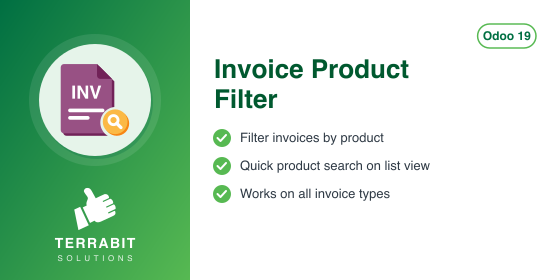
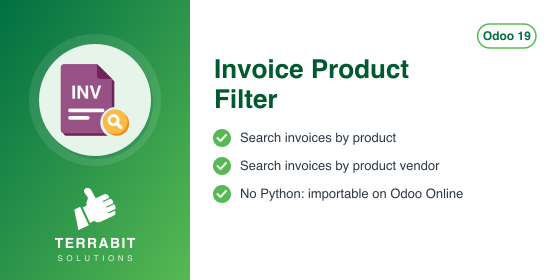
[IMP] deltatech_invoice_product_filter: data-only module, importable on Odoo Online
The empty __init__.py is removed: the module only extends the invoice
search view, so it can be imported as a zip on Odoo Online (Custom plan)
from Apps > Import Module. The name, summary, banner and Apps Store page
say it, since Odoo Apps does not flag data-only modules as available on
Odoo Online. The module is excluded from oca-checks-odoo-module, which
requires __init__.py.

Adds the consultant sheet (RO) and USAGE.md (EN), with screenshots taken
on a test database with the RO localization.

Assisted-by: Claude Opus 5.5

Changed region(s): [[0.425, 0.6571, 0.85, 0.7143], [0.425, 0.5714, 0.7893, 0.6286], [0.425, 0.4571, 0.7286, 0.5143]]

diff --git a/deltatech_invoice_product_filter/static/description/index.html b/deltatech_invoice_product_filter/static/description/index.html
@@ -5,11 +5,11 @@
     <span class="d-inline-block rounded-4 p-2 flex-shrink-0 my-2" style="background-color:#ffffff;margin-right:24px;"><img src="icon.png" alt="Invoice Product Filter" style="width:80px;height:80px;border:none;"/></span>
     <div class="flex-grow-1 my-2" style="width:320px;min-width:0;margin-right:24px;">
       <h1 class="fw-bold mb-2" style="color:#ffffff;font-size:36px;line-height:1.1;letter-spacing:-0.5px;border:none;">Invoice Product Filter</h1>
-      <p class="mb-3" style="font-size:18px;color:#cdeccf;line-height:1.45;">Search invoices by product name instantly</p>
+      <p class="mb-3" style="font-size:18px;color:#cdeccf;line-height:1.45;">Find invoices by product, also on Odoo Online</p>
       <div>
         <span class="d-inline-block rounded-pill fw-bold me-2 mb-2" style="background-color:#ffffff;border:1px solid #ffffff;color:#006F42;padding:6px 14px;font-size:12px;">Odoo 19.0</span>
         <span class="d-inline-block rounded-pill fw-semibold me-2 mb-2" style="border:1px solid #8fd1ad;color:#ffffff;padding:6px 14px;font-size:12px;">Accounting</span>
-        <span class="d-inline-block rounded-pill fw-semibold me-2 mb-2" style="border:1px solid #8fd1ad;color:#ffffff;padding:6px 14px;font-size:12px;">Odoo.sh &bull; On-premise</span>
+        <span class="d-inline-block rounded-pill fw-semibold me-2 mb-2" style="border:1px solid #8fd1ad;color:#ffffff;padding:6px 14px;font-size:12px;">Odoo Online &bull; Odoo.sh &bull; On-premise</span>
         <span class="d-inline-block rounded-pill fw-semibold me-2 mb-2" style="border:1px dashed #8fd1ad;color:#ffffff;padding:6px 14px;font-size:12px;">LGPL-3</span>
       </div>
     </div>
@@ -32,6 +32,11 @@
        style="padding:10px 22px;">Overview</a>
   </li>
   <li class="nav-item mx-1 mb-2">
+    <a class="nav-link fw-semibold rounded-pill border" id="tb-tab-usage"
+       data-bs-toggle="pill" data-bs-target="#tb-panel-usage" href="#tb-panel-usage"
+       style="padding:10px 22px;">Usage</a>
+  </li>
+  <li class="nav-item mx-1 mb-2">
     <a class="nav-link fw-semibold rounded-pill border" id="tb-tab-versions"
        data-bs-toggle="pill" data-bs-target="#tb-panel-versions" href="#tb-panel-versions"
        style="padding:10px 22px;">Versions</a>
@@ -49,9 +54,45 @@
 </ul>
 </li>
 </ul>
+<h1 class="fw-bold mt-4 mb-3" style="border:none;border-left:4px solid #57B952;padding-left:16px;font-size:24px;letter-spacing:-0.3px;line-height:1.2;">Odoo Online</h1>
+<p>The module contains no Python code, only a search view extension. Besides Odoo.sh and
+on-premise installations, it can be used on Odoo Online (Custom plan): download the zip and load
+it from <strong>Apps &gt; Import Module</strong>.</p>
+</div>
+<div class="tab-pane fade py-2" id="tb-panel-usage" style="font-size:16px;line-height:1.65;color:#212529;font-weight:400;">
+<h2 class="fw-bold mb-3" style="border:none;border-left:4px solid #57B952;padding-left:16px;font-size:24px;letter-spacing:-0.3px;line-height:1.2;">Usage</h2>
+<ol>
+<li>Install the module, or on Odoo Online import the zip from <strong>Apps &gt; Import Module</strong>
+   (Custom plan, developer mode). There is nothing to configure; for the vendor search, the
+   products need their vendors in the <strong>Purchase</strong> tab of the product form.</li>
+<li>Open <strong>Invoicing &gt; Customers &gt; Invoices</strong> and type a product name, or part of it, in the search
+   bar. Two new suggestions appear: <strong>Search Product for: ...</strong> and <strong>Search Vendor for: ...</strong>.</li>
+</ol>
+<p><img class="img-fluid d-block" style="max-width:100%;height:auto;" alt="Invoices list with TEST Ergonomic typed in the search bar; the suggestions include Search Product for: TEST Ergonomic (highlighted) and Search Vendor for: TEST Ergonomic" src="en/01_cautare_dupa_produs.png" /></p>
+<ol start="3">
+<li>Choose <strong>Search Product</strong>: the list keeps only the invoices that have the product on at least
+   one line. The search uses the product name, its internal reference or its barcode.</li>
+</ol>
+<p><img class="img-fluid d-block" style="max-width:100%;height:auto;" alt="Invoices list filtered by Product: TEST Ergonomic, showing the invoices of TEST Contoso Interiors Ltd and TEST Northwind Builders Ltd" src="en/02_facturi_filtrate_produs.png" /></p>
+<ol start="4">
+<li>Remove the facet, type a vendor name and choose <strong>Search Vendor</strong>: the list keeps the invoices
+   with products bought from that vendor, whatever the product.</li>
+</ol>
+<p><img class="img-fluid d-block" style="max-width:100%;height:auto;" alt="Invoices list filtered by Vendor: TEST Office, showing three invoices with products supplied by TEST Office Supply Ltd" src="en/03_facturi_filtrate_furnizor.png" /></p>
+<p>Both criteria are available in every invoice list: customer invoices and credit notes, vendor
+bills and refunds. They can be combined with each other and with the standard filters.</p>
 </div>
 <div class="tab-pane fade py-2" id="tb-panel-versions" style="font-size:16px;line-height:1.65;color:#212529;font-weight:400;">
 <h2 class="fw-bold mb-3" style="border:none;border-left:4px solid #57B952;padding-left:16px;font-size:24px;letter-spacing:-0.3px;line-height:1.2;">Versions</h2>
+<h2 class="fw-bold mt-4 mb-3" style="border:none;border-left:4px solid #57B952;padding-left:16px;font-size:24px;letter-spacing:-0.3px;line-height:1.2;">19.0.1.2.0 (2026-11-08)</h2>
+<ul>
+<li>Data-only module: the empty <code class="border rounded px-2" style="font-family:ui-monospace,SFMono-Regular,Menlo,Consolas,monospace;font-size:13px;">__init__.py</code> was removed, so the module has no Python code. It
+  can be installed on Odoo Online (Custom plan) as a zip from Apps &gt; Import Module, as well as on
+  Odoo.sh and on-premise.</li>
+<li>Odoo Apps does not mark data-only modules as available on Odoo Online, so the module name,
+  the summary, the banner and the Apps Store page now say it: "Invoice Product Filter
+  (importable, Odoo Online)".</li>
+</ul>
 <h2 class="fw-bold mt-4 mb-3" style="border:none;border-left:4px solid #57B952;padding-left:16px;font-size:24px;letter-spacing:-0.3px;line-height:1.2;">19.0.1.1.1 (2026-09-29)</h2>
 <ul>
 <li>Own module icon, instead of the generic gears it had.</li>
@@ -232,7 +273,7 @@
               <span class="d-block" style="font-size:13px;color:#3d4752;">Accounting</span>
             </span>
           </div>
-          <p class="mb-0" style="font-size:15px;line-height:1.45;color:#3d4752;">Create receipt form invoice</p>
+          <p class="mb-0" style="font-size:15px;line-height:1.45;color:#3d4752;">Create the purchase order and the receipt from the vendor bill</p>
         </div>
       </a>
     </div>

diff --git a/deltatech_invoice_product_filter/__manifest__.py b/deltatech_invoice_product_filter/__manifest__.py
@@ -3,9 +3,9 @@
 # See README.rst file on addons root folder for license details
 
 {
-    "name": "Invoice Product Filter",
-    "summary": "Searching invoice using product",
-    "version": "19.0.1.1.1",
+    "name": "Invoice Product Filter (importable, Odoo Online)",
+    "summary": "Search invoices by product or product vendor; data-only, importable on Odoo Online",
+    "version": "19.0.1.2.0",
     "author": "Terrabit, Dorin Hongu",
     "website": "https://www.terrabit.ro",
     "category": "Accounting",

diff --git a/deltatech_invoice_product_filter/readme/FISA_CONSULTANT.md b/deltatech_invoice_product_filter/readme/FISA_CONSULTANT.md
@@ -1,0 +1,151 @@
+# Fișă Modul: Căutarea facturilor după produs și după furnizorul produsului
+
+**Modul:** `deltatech_invoice_product_filter`
+**Utilizator principal:** Contabili, facturiste, agenți de vânzări și achizitori care caută facturi
+**Prioritate:** 🟢 Scăzută (adaugă două criterii de căutare, nu modifică datele)
+
+---
+
+## 1. Scop business
+
+În Odoo, căutarea din lista de facturi găsește documentele după număr, partener, referință sau
+jurnal; criteriul standard **Linie factură** caută doar în textul liniilor, nu după produs,
+referința lui internă, codul de bare sau furnizorul produsului. Ca să afle pe ce facturi a fost vândut un anumit produs,
+utilizatorul trebuie să deschidă analiza facturilor sau să caute în liniile contabile. Modulul
+adaugă în bara de căutare a facturilor două criterii:
+
+- **Produs**: găsește facturile care au pe linii un produs al cărui nume sau referință internă
+  conține textul căutat (sau al cărui cod de bare este exact textul căutat);
+- **Furnizor**: găsește facturile care au pe linii produse cumpărate de la furnizorul căutat, adică
+  produse care au furnizorul în fila **Achiziție** a fișei produsului (lista de prețuri ale
+  furnizorilor).
+
+Criteriile apar în toate listele care folosesc căutarea facturilor: facturi și note de credit
+clienți, facturi și rambursări furnizori.
+
+Modulul nu are cod Python, doar o extensie a vederii de căutare. Pe lângă Odoo.sh și instalările
+proprii, se poate folosi și pe Odoo Online (planul Custom), încărcat ca arhivă zip: cu modul
+dezvoltator activ, din **Aplicații → Importați Modulul**.
+
+## 2. Bază legală și context
+
+Modulul nu are bază legală. Contextul este lucrul zilnic: răspunsul la întrebări ca „pe ce facturi
+am vândut produsul X?”, „ce clienți au cumpărat marfă de la furnizorul Y?”, verificarea unei
+reclamații sau a unui retur, pregătirea unei discuții comerciale cu un furnizor.
+
+## 3. Utilizatori și roluri
+
+| Rol | Ce face |
+|---|---|
+| Utilizator cu acces la Facturare | Caută facturi după produs sau după furnizorul produsului |
+| Administrator | Instalează sau importă modulul; nu are nimic de configurat |
+
+Modulul nu adaugă grupuri de drepturi: fiecare utilizator vede doar facturile la care are deja
+acces. Pentru testare ajunge un utilizator administrator.
+
+## 4. Conturi și date implicate
+
+Nu se folosesc conturi contabile și nu se generează note contabile. Pentru demo sunt necesare:
+
+- câteva produse, unele cu furnizor completat în fila **Achiziție** (în capturi: *TEST Scaun
+  ergonomic* și *TEST Lampă de birou*, cu furnizorul *TEST Distribuție Mobilier SRL*; *TEST Birou
+  reglabil*, cu furnizorul *TEST Lemn Prelucrat SRL*);
+- câteva facturi clienți validate cu aceste produse (în capturi: facturile către *TEST Mobila
+  Banat SRL*, *TEST Birou Expert SRL* și *TEST Casa Verde SRL*).
+
+## 5. Configurare inițială
+
+1. Instalați modulul `deltatech_invoice_product_filter` (depinde doar de `account`). Pe Odoo Online,
+   activați modul dezvoltator și încărcați arhiva zip din **Aplicații → Importați Modulul**.
+2. Pentru criteriul **Furnizor**, completați furnizorii pe produse: fișa produsului, fila
+   **Achiziție**, lista de furnizori. Nu există alte setări.
+
+## 6. Flux de utilizare
+
+### Pasul 1 — Căutarea după produs
+
+Deschideți **Facturare → Clienți → Facturi**. Scrieți în bara de căutare numele produsului sau o
+parte din el (de exemplu *TEST Scaun*). În lista de sugestii apar două rânduri noi: **Caută Produs
+pentru: …** și **Caută Furnizor pentru: …**. Alegeți **Caută Produs**.
+
+![Lista Facturi cu textul TEST Scaun scris în bara de căutare; în lista de sugestii, între Caută Partener și Caută Agent de vânzări, sunt rândurile noi Caută Produs pentru: TEST Scaun (evidențiat) și Caută Furnizor pentru: TEST Scaun](../static/description/01_cautare_dupa_produs.png)
+
+### Pasul 2 — Facturile care conțin produsul
+
+Lista se reduce la facturile care au produsul pe cel puțin o linie, iar în bara de căutare apare
+eticheta **Produs**. Totalurile de sub listă se recalculează pe facturile găsite (sunt totalurile
+facturilor întregi, nu doar ale liniilor cu produsul căutat).
+
+![Lista Facturi filtrată cu eticheta Produs: TEST Scaun; rămân facturile INV/2026/00011 către TEST Birou Expert SRL și INV/2026/00010 către TEST Mobila Banat SRL, cu totalul 15.367,00 lei](../static/description/02_facturi_filtrate_produs.png)
+
+### Pasul 3 — Căutarea după furnizorul produsului
+
+Ștergeți eticheta cu **×**, scrieți numele furnizorului (de exemplu *TEST Distribuție*) și alegeți
+**Caută Furnizor pentru: …**. Lista arată facturile clienți pe care s-au vândut produse ale acelui
+furnizor, indiferent de produs: aici, scaunele și lămpile de birou.
+
+![Lista Facturi filtrată cu eticheta Furnizor: TEST Distribuție; rămân trei facturi: INV/2026/00013 către TEST Casa Verde SRL, INV/2026/00011 către TEST Birou Expert SRL și INV/2026/00010 către TEST Mobila Banat SRL](../static/description/03_facturi_filtrate_furnizor.png)
+
+Criteriile se pot combina între ele și cu filtrele standard (de exemplu **Produs** plus filtrul pe
+perioadă sau pe stare). Mai multe valori puse pe același criteriu se leagă cu „sau”.
+
+### Note de monografie și raportare
+
+Modulul nu generează note contabile (Dr/Cr): doar filtrează lista de facturi existente.
+
+## 7. Legături cu alte module / declarații
+
+| Modul | Rol |
+|---|---|
+| `account` | Lista de facturi și vederea de căutare pe care modulul o extinde |
+| `product` (instalat odată cu `account`) | Produsele și furnizorii lor (fila **Achiziție**) |
+| `purchase` (opțional) | Adaugă automat furnizorul comenzii pe produs la confirmarea comenzii de achiziție (dacă produsul are cel mult 10 furnizori) |
+| `base_import_module` | Importul arhivei zip pe Odoo Online |
+
+**Ce e automat:** criteriile **Produs** și **Furnizor** apar în căutarea tuturor listelor de
+facturi și note de credit, de vânzare și de achiziție.
+
+**Ce rămâne manual:** completarea furnizorilor pe produse, pentru criteriul **Furnizor**.
+
+## 8. Verificări pentru consultant
+
+- [ ] În **Facturare → Clienți → Facturi**, după ce scrieți un text în căutare, apar sugestiile
+  **Caută Produs** și **Caută Furnizor**.
+- [ ] Căutarea după produs găsește facturile care au produsul pe linii, inclusiv după referința
+  internă a produsului (codul dintre paranteze drepte).
+- [ ] Căutarea după furnizor găsește facturile cu produse care au furnizorul în fila **Achiziție**.
+- [ ] Criteriile apar și în **Facturare → Furnizori → Facturi** și în listele de note de credit.
+- [ ] Pe Odoo Online, după importul arhivei zip (modul dezvoltator, **Aplicații → Importați
+  Modulul**), modulul apare în **Aplicații** și criteriile apar în căutarea facturilor.
+
+## 9. Mesaje de eroare frecvente
+
+| Mesaj | Cauză | Remediere |
+|---|---|---|
+| Căutarea după furnizor nu găsește nicio factură | Produsele nu au furnizorul completat în fila **Achiziție** (furnizorul de pe factura de achiziție nu contează) | Completați furnizorii pe produse sau folosiți criteriul **Partener** pe facturile furnizorilor |
+| Căutarea după produs găsește facturi în plus | Textul căutat apare în numele mai multor produse | Scrieți un text mai precis sau referința internă a produsului |
+| Sugestiile **Caută Produs** și **Caută Furnizor** nu apar | Modulul nu e instalat sau browserul folosește încă vederea veche | Verificați în **Aplicații** și reîncărcați pagina |
+
+## 10. Capturi de ecran
+
+Capturile sunt în `static/description/` (cele în engleză, pentru `readme/USAGE.md`, în
+`static/description/en/`), făcute în română pe o bază de test cu localizarea RO (`l10n_ro`, TVA 21%, moneda RON) și cu
+modulul instalat:
+
+| Fișier | Ce arată |
+|---|---|
+| `01_cautare_dupa_produs.png` | Lista de sugestii cu rândurile noi **Caută Produs** și **Caută Furnizor** |
+| `02_facturi_filtrate_produs.png` | Facturile care conțin produsul *TEST Scaun ergonomic* |
+| `03_facturi_filtrate_furnizor.png` | Facturile cu produse ale furnizorului *TEST Distribuție Mobilier SRL* |
+
+Modulul nu are `tests/test_screenshots.py`, ca să rămână fără cod Python: capturile s-au făcut
+cu Playwright.
+
+## 11. Observații pentru manual
+
+- Criteriul **Furnizor** caută după furnizorii declarați pe produs, nu după furnizorul de pe
+  factura de achiziție; un produs cu mai mulți furnizori apare la căutarea oricăruia dintre ei.
+- Furnizorul se poate căuta și după CUI, email sau referința internă a partenerului.
+- Totalurile listei sunt ale facturilor întregi; pentru cantitățile și valorile vândute pe produs
+  se folosește analiza facturilor, din meniul **Facturare → Raportare**.
+- Pe Odoo Online, importul unui modul cere planul Custom.

diff --git a/deltatech_invoice_product_filter/readme/USAGE.md b/deltatech_invoice_product_filter/readme/USAGE.md
@@ -1,0 +1,20 @@
+1. Install the module, or on Odoo Online import the zip from **Apps > Import Module**
+   (Custom plan, developer mode). There is nothing to configure; for the vendor search, the
+   products need their vendors in the **Purchase** tab of the product form.
+2. Open **Invoicing > Customers > Invoices** and type a product name, or part of it, in the search
+   bar. Two new suggestions appear: **Search Product for: ...** and **Search Vendor for: ...**.
+
+   ![Invoices list with TEST Ergonomic typed in the search bar; the suggestions include Search Product for: TEST Ergonomic (highlighted) and Search Vendor for: TEST Ergonomic](static/description/en/01_cautare_dupa_produs.png)
+
+3. Choose **Search Product**: the list keeps only the invoices that have the product on at least
+   one line. The search uses the product name, its internal reference or its barcode.
+
+   ![Invoices list filtered by Product: TEST Ergonomic, showing the invoices of TEST Contoso Interiors Ltd and TEST Northwind Builders Ltd](static/description/en/02_facturi_filtrate_produs.png)
+
+4. Remove the facet, type a vendor name and choose **Search Vendor**: the list keeps the invoices
+   with products bought from that vendor, whatever the product.
+
+   ![Invoices list filtered by Vendor: TEST Office, showing three invoices with products supplied by TEST Office Supply Ltd](static/description/en/03_facturi_filtrate_furnizor.png)
+
+Both criteria are available in every invoice list: customer invoices and credit notes, vendor
+bills and refunds. They can be combined with each other and with the standard filters.

diff --git a/deltatech_invoice_product_filter/readme/HISTORY.md b/deltatech_invoice_product_filter/readme/HISTORY.md
@@ -1,3 +1,12 @@
+## 19.0.1.2.0 (2026-11-08)
+
+- Data-only module: the empty `__init__.py` was removed, so the module has no Python code. It
+  can be installed on Odoo Online (Custom plan) as a zip from Apps > Import Module, as well as on
+  Odoo.sh and on-premise.
+- Odoo Apps does not mark data-only modules as available on Odoo Online, so the module name,
+  the summary, the banner and the Apps Store page now say it: "Invoice Product Filter
+  (importable, Odoo Online)".
+
 ## 19.0.1.1.1 (2026-09-29)
 
 - Own module icon, instead of the generic gears it had.

diff --git a/deltatech_invoice_product_filter/readme/DESCRIPTION.md b/deltatech_invoice_product_filter/readme/DESCRIPTION.md
@@ -2,3 +2,10 @@
 
   - Searching invoice using product
   - Searching invoice using the product's vendor (supplier) name
+
+Odoo Online
+===========
+
+The module contains no Python code, only a search view extension. Besides Odoo.sh and
+on-premise installations, it can be used on Odoo Online (Custom plan): download the zip and load
+it from **Apps > Import Module**.
